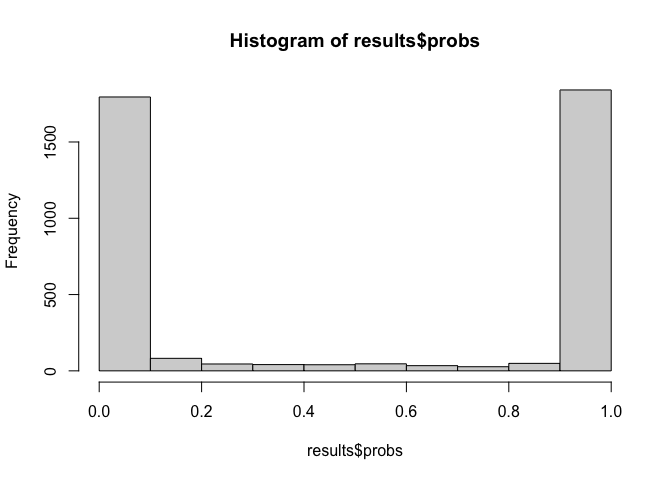
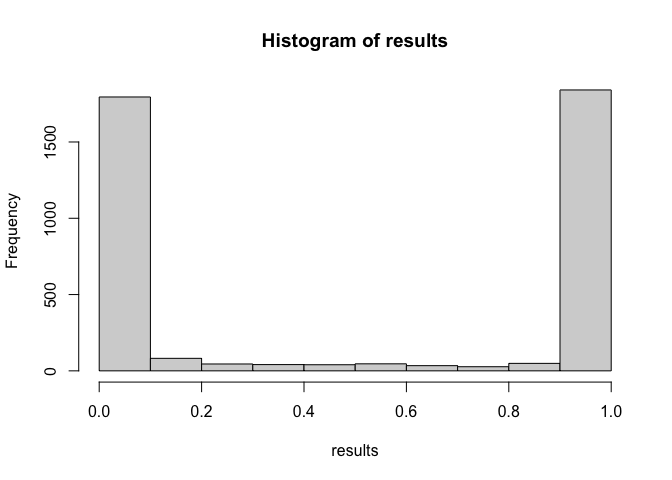
More efficient implementation and update README accordingly.

Changed region(s): [[0.3438, 0.0625, 0.7188, 0.125], [0.4688, 0.9062, 0.5938, 0.9688]]

diff --git a/README.md b/README.md
@@ -4,6 +4,7 @@
 # nnadic
 
 <!-- badges: start -->
+
 <!-- badges: end -->
 
 The goal of nnadic (**N**eural **N**etwork for **A**symptotic
@@ -20,37 +21,14 @@ correct dimension
 There are many customization options which allow the user to take
 advantage of advanced functionality.
 
-For details see [Wixson and Cooley (2025)](https://doi.org/10.1007/s10687-025-00520-9)
-
 ## Installation
 
 You can install the development version of nnadic from
 [GitHub](https://github.com/) with:
 
 ``` r
-# install.packages("devtools")
-devtools::install_github("twixson/nnadic")
-```
-
-Troubleshooting:
-
-- The `nnadic` package requires a working `keras` installation. Some
-  users have found that installing `keras` first is helpful. This
-  includes ensuring that the python installation needed for the creation
-  of the virtual environment is suitable.
-
-Suggested install code:
-
-``` r
-install.packages("remotes", force = TRUE)
-remotes::install_github("rstudio/tensorflow", force = TRUE)
-remotes::install_github("rstudio/keras", force = TRUE)
-reticulate::install_miniconda()
-reticulate::install_python(version = '3.9')
-install.packages("keras")
-keras::install_keras()
-tensorflow::install_tensorflow()
-remotes::install_github("twixson/nnadic")
+# install.packages("pak")
+pak::pak("twixson/nnadic")
 ```
 
 ## Example
@@ -66,16 +44,16 @@ library(mvtnorm)  # for generating AInd datasets (gaussian)
 
 test_data_four <- make_symmetric(test_data_four)
 
-results <- nnadic(test_data_four, one_test = FALSE)
-#> 125/125 - 1s - 526ms/epoch - 4ms/step
+results <- nnadic(test_data_four, prob_AInd_only = TRUE)
+hist(results)
 ```
 
-<img src="man/figures/README-example-1.png" width="100%" />
+<img src="man/figures/README-example-1.png" alt="" width="100%" />
 
-    #> [1] "Probabilities and predictions for each dataset are being returned"
-    #> [1] "Each probability is the probability of AI which is coded as '1'"
-    mean(results$preds == test_response_four)
-    #> [1] 0.96925
+``` r
+mean((results > 0.5) == test_response_four)
+#> [1] 0.96925
+```
 
 ``` r
 set.seed(2938)
@@ -95,20 +73,17 @@ data_ready <- get_nnadic_input(data)
 #> [1] "...the rest of the points were subsampled so that all 100"
 #> [1] "...   datasets have 500 points."
 #> [1] "...each dataset was made symmetric and now has 1000 points."
-results <- nnadic(data_ready)
-#> 4/4 - 0s - 48ms/epoch - 12ms/step
+results <- nnadic(data_ready, prob_AInd_only = TRUE)
+hist(results)
 ```
 
-<img src="man/figures/README-unnamed-chunk-2-1.png" width="100%" />
+<img src="man/figures/README-unnamed-chunk-2-1.png" alt="" width="100%" />
 
-    #> [1] "Probabilities and predictions for each dataset are being returned"
-    #> [1] "Each probability is the probability of AI which is coded as '1'"
-    #> [1] "##################"
-    #> [1] "The mean of the predictions is: 0"
-    #> [1] "This is `nnadic`'s probability that these data are AI"
-    results$mean
-    #> [1] 0
-    # should be 0
+``` r
+mean(results > 0.5)
+#> [1] 0
+# should be 0
+```
 
 ``` r
 # Lets generate a new Adep dataset
@@ -125,14 +100,14 @@ data_ready <- get_nnadic_input(data, subsample = TRUE)
 #> [1] "...points above the 0.95 quantile were subsampled 100 times"
 #> [1] "...   so that each dataset has exactly 500 points."
 #> [1] "...each dataset was made symmetric and now has 1000 points."
-results <- nnadic(data_ready, make_hist = FALSE)
-#> 4/4 - 0s - 20ms/epoch - 5ms/step
-#> [1] "Probabilities and predictions for each dataset are being returned"
-#> [1] "Each probability is the probability of AI which is coded as '1'"
-#> [1] "##################"
-#> [1] "The mean of the predictions is: 1"
-#> [1] "This is `nnadic`'s probability that these data are AI"
-results$mean
+results <- nnadic(data_ready, prob_AInd_only = TRUE)
+hist(results)
+```
+
+<img src="man/figures/README-unnamed-chunk-3-1.png" alt="" width="100%" />
+
+``` r
+mean(results > 0.5)
 #> [1] 1
 # should be 1
 ```
